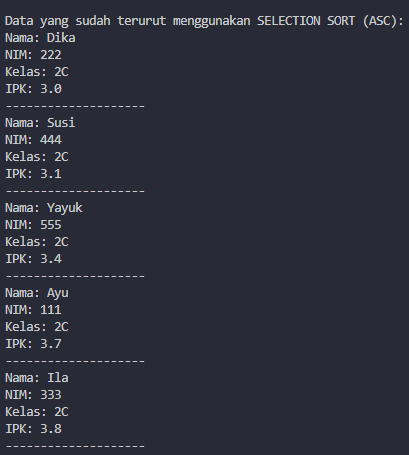
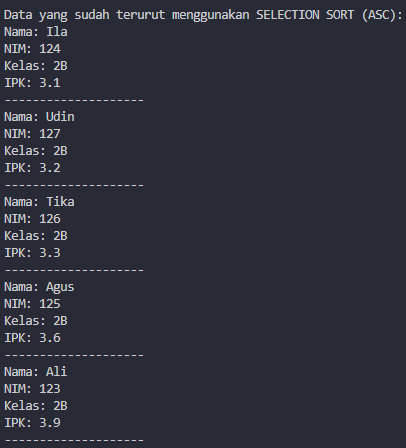
P6_Percobaan2_SelectionSort_Update

Changed region(s): [[0.0, 0.0, 1.0, 1.0]]

diff --git a/src/P6/MahasiswaDemo.java b/src/P6/MahasiswaDemo.java
@@ -7,21 +7,33 @@ public class MahasiswaDemo {
         Scanner sc = new Scanner(System.in);
         MahasiswaBerprestasi06 list = new MahasiswaBerprestasi06();
 
-        for (int i = 0; i < list.listMhs.length; i++) {
-            System.out.println("Masukkan Data Mahasiswa ke-" + (i + 1));
-            System.out.print("Nama: ");
-            String nama = sc.nextLine();
-            System.out.print("NIM : ");
-            String nim = sc.nextLine();
-            System.out.print("IPK : ");
-            double ipk = sc.nextDouble();
-            sc.nextLine();
-            System.out.print("Kelas: ");
-            String kelas = sc.nextLine();
+        // for (int i = 0; i < list.listMhs.length; i++) {
+        // System.out.println("Masukkan Data Mahasiswa ke-" + (i + 1));
+        // System.out.print("Nama: ");
+        // String nama = sc.nextLine();
+        // System.out.print("NIM : ");
+        // String nim = sc.nextLine();
+        // System.out.print("IPK : ");
+        // double ipk = sc.nextDouble();
+        // sc.nextLine();
+        // System.out.print("Kelas: ");
+        // String kelas = sc.nextLine();
 
-            Mahasiswa06 m = new Mahasiswa06(nim, nama, kelas, ipk);
-            list.tambah(m);
-        }
+        // Mahasiswa06 m = new Mahasiswa06(nim, nama, kelas, ipk);
+        // list.tambah(m);
+        // }
+
+        Mahasiswa06 m1 = new Mahasiswa06("123", "Ali", "2B", 3.9);
+        Mahasiswa06 m2 = new Mahasiswa06("124", "Ila", "2B", 3.1);
+        Mahasiswa06 m4 = new Mahasiswa06("126", "Tika", "2B", 3.3);
+        Mahasiswa06 m3 = new Mahasiswa06("125", "Agus", "2B", 3.6);
+        Mahasiswa06 m5 = new Mahasiswa06("127", "Udin", "2B", 3.2);
+
+        list.tambah(m1);
+        list.tambah(m2);
+        list.tambah(m3);
+        list.tambah(m4);
+        list.tambah(m5);
 
         System.out.println("\nData mahasiswa sebelum sorting: ");
         list.tampil();
@@ -60,3 +72,9 @@ public class MahasiswaDemo {
 // list.tampil();
 
 // }
+
+// Mahasiswa06 m1 = new Mahasiswa06("111", "Ayu", "2C", 3.7);
+// Mahasiswa06 m2 = new Mahasiswa06("222", "Dika", "2C", 3.0);
+// Mahasiswa06 m3 = new Mahasiswa06("333", "Ila", "2C", 3.8);
+// Mahasiswa06 m4 = new Mahasiswa06("444", "Susi", "2C", 3.1);
+// Mahasiswa06 m5 = new Mahasiswa06("555", "Yayuk", "2C", 3.4);

diff --git a/src/P6/REPORT.md b/src/P6/REPORT.md
@@ -100,3 +100,5 @@ Hasil Percobaan
 
 ![Screenshot](img/Percobaan2_Pertanyaan2_Class_Selection_Sort.png) ![Screenshot](img/Percobaan2_Pertanyaan2_Main_Selection_Sort.png)
 ![Screenshot](img/Percobaan2_Pertanyaan2_Hasil_Selection_Sort.png)
+
+Untuk apakah proses tersebut, jelaskan! Proses tersebut digunakan untuk swapping (penukaran nilai/objek). Objek mahasiswa yang memiliki IPK paling kecil (yang letak indeksnya tersimpan di variabel idxMin) disimpan sementara di tmp, kemudian posisi idxMin tersebut ditukar nilainya dengan elemen di posisi ke-i. Tujuannya adalah menempatkan mahasiswa ber-IPK terkecil tersebut ke posisi yang paling depan pada bagian array yang belum terurut
